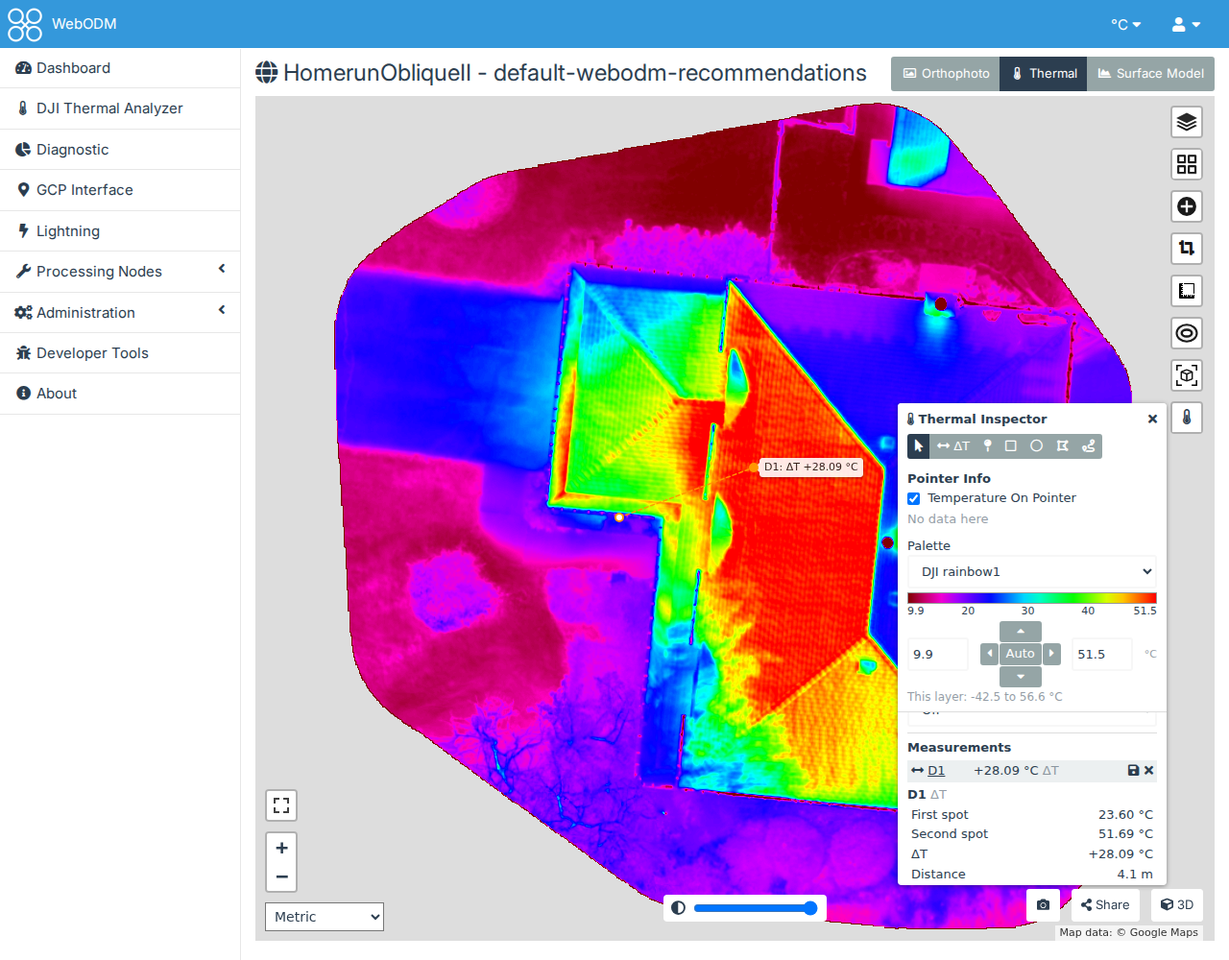
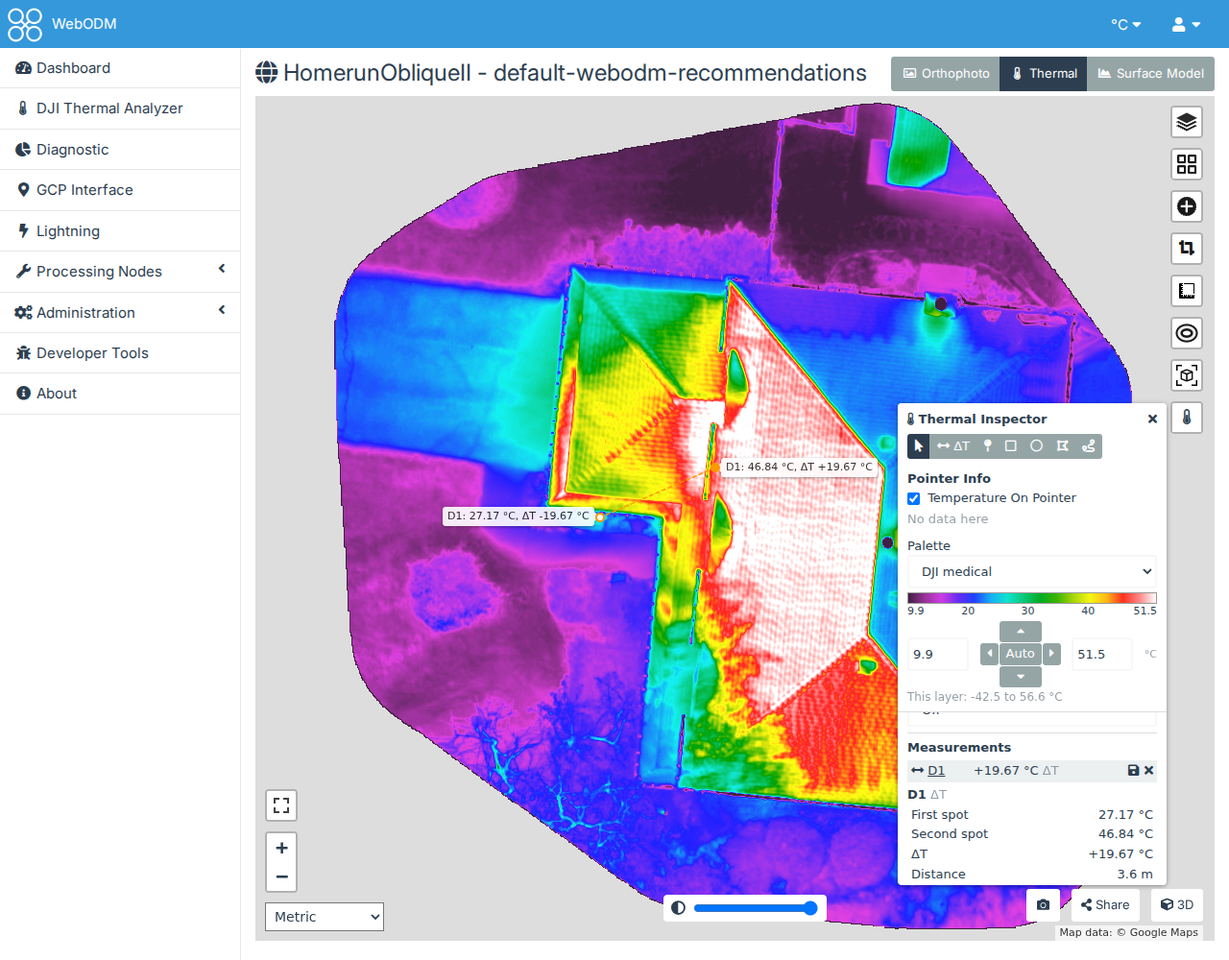
R46: each ΔT spot labelled with its temperature and its own ΔT
Both spots of a ΔT now show their temperature and that spot's temperature less
the other's ("D1: 22.10 °C, ΔT -2.10 °C" / "D1: 24.20 °C, ΔT +2.10 °C"), on the
map (new and saved, across two layers too), the 3D page and the frame page. The
second's is the ΔT listed, so the list and exports are unchanged.

diff --git a/dji-thermal/public/inspector.js b/dji-thermal/public/inspector.js
@@ -104,6 +104,16 @@
         return (celsius > 0 ? "+" : "") + formatDelta(celsius, unit);
     }
     function numberOrNull(v) { return typeof v === "number" && isFinite(v) ? v : null; }
+    // A ΔT's labels at its two spots: each its temperature and its own ΔT, that spot's less the other's, so the second's
+    // is the ΔT listed and the first's its opposite ("D1: 22.10 °C, ΔT -2.10 °C", "D1: 24.20 °C, ΔT +2.10 °C"); a spot
+    // without a temperature its name alone, and the other no ΔT
+    function deltaLabels(name, first, second, unit) {
+        var both = typeof first === "number" && typeof second === "number";
+        return [[first, second], [second, first]].map(function (p) {
+            if (typeof p[0] !== "number") return name;
+            return name + ": " + formatTemp(p[0], unit) + (both ? ", ΔT " + formatSigned(p[0] - p[1], unit) : "");
+        });
+    }
     function formatLength(m, unit) {
         var imperial = (unit || userUnit()) === "F";
         return (imperial ? m * FT_PER_M : m).toFixed(m >= 100 ? 0 : 1) + (imperial ? " ft" : " m");
@@ -1667,7 +1677,7 @@
             state.regions.forEach(function (r) {
                 var style = r.id === state.shown ? Regions.STYLE : {color: Regions.STYLE.color, weight: 1, opacity: 0.8, fillOpacity: 0.05};
                 if (r.shape === "delta") {
-                    return deltaLayers(latLngs(r), style.color, r.label + (typeof r.delta_t === "number" ? ": ΔT " + formatSigned(r.delta_t) : ""), "dt-inspector-tip",
+                    return deltaLayers(latLngs(r), style.color, deltaLabels(r.label, r.first, r.second), "dt-inspector-tip",
                                        acrossLayers(r) ? r.sources : r.source).forEach(function (l) { regionLayer.addLayer(l); });
                 }
                 var shape = r.circle ? L.circle([r.circle.lat, r.circle.lng], inPane(r.source, assign({radius: r.circle.radius, interactive: false}, style))) :
@@ -1686,18 +1696,20 @@
             updateCrossLines();
         }
 
-        // A ΔT on the map: a thin line between its spots, a dot at each (the first hollow), the label at the second; in
-        // the pane of the layer it was read on (key). Across two layers (key: [first's, second's]), each dot in its own
+        // A ΔT on the map: a thin line between its spots, a dot at each (the first hollow), each with its label (labels:
+        // deltaLabels'), on its outer side, away from the other; in the pane of the layer it was read on (key). Across two layers (key: [first's, second's]), each dot in its own
         // layer's pane, and the line in one of its own, shown only while both dots show (updateCrossLines)
         var crossLines = [];
-        function deltaLayers(points, color, label, className, key) {
+        function deltaLayers(points, color, labels, className, key) {
             var keys = Array.isArray(key) ? key : [key, key], across = keys[0] !== keys[1];
             var dot = function (p, fill, k) { return L.circleMarker(p, inPane(k, {radius: 4, color: color, weight: 2, fillColor: fill, fillOpacity: 1, interactive: false})); };
-            var second = dot(points[1], color, keys[1]);
-            second.bindTooltip(label, inPane(keys[1], {permanent: true, direction: "right", className: className}));
+            var firstLeft = points[0][1] <= points[1][1];
+            var first = dot(points[0], "#fff", keys[0]), second = dot(points[1], color, keys[1]);
+            first.bindTooltip(labels[0], inPane(keys[0], {permanent: true, direction: firstLeft ? "left" : "right", className: className}));
+            second.bindTooltip(labels[1], inPane(keys[1], {permanent: true, direction: firstLeft ? "right" : "left", className: className}));
             var line = L.polyline(points, inPane(across ? ACROSS_PANE : keys[0], {color: color, weight: 1.5, opacity: 0.95, dashArray: "4 3", interactive: false}));
             if (across) crossLines.push({line: line, points: points, keys: keys});
-            return [line, dot(points[0], "#fff", keys[0]), second];
+            return [line, first, second];
         }
         // Each ΔT across two layers: its line shown only while both its spots are on screen, each where its own layer
         // shows (inside its pane's clip: WebODM's divider), so a line never leads to a spot that isn't there
@@ -1747,7 +1759,7 @@
                     if (typeof t === "number") label = m.name + ": " + formatTemp(t);
                 } else if (m.shape === "delta") {
                     var v = m.values || {};
-                    return deltaLayers(savedLatLngs(m), SAVED_STYLE.color, m.name + (typeof v.delta_t === "number" ? ": ΔT " + formatSigned(v.delta_t) : ""),
+                    return deltaLayers(savedLatLngs(m), SAVED_STYLE.color, deltaLabels(m.name, v.first, v.second),
                                        "dt-inspector-tip dt-inspector-saved-tip", key).forEach(function (l) { savedLayer.addLayer(l); });
                 } else if (m.circle) shape = L.circle([m.circle.lat, m.circle.lng], inPane(key, assign({radius: m.circle.radius, interactive: false}, style)));
                 else if (m.shape === "line") shape = L.polyline(savedLatLngs(m), inPane(key, assign({interactive: false}, style, {weight: style.weight + 1})));
@@ -2868,7 +2880,7 @@
         });
     }
 
-    var api = {userUnit: userUnit, formatTemp: formatTemp, thermalLayer: thermalLayer, thermalLayers: thermalLayers,
+    var api = {userUnit: userUnit, formatTemp: formatTemp, deltaLabels: deltaLabels, thermalLayer: thermalLayer, thermalLayers: thermalLayers,
                thermalLayerAt: thermalLayerAt, pointUrl: pointUrl, withColorMap: withColorMap, colorMapOf: colorMapOf,
                PLAIN: PLAIN, withPalette: withPalette, paletteOf: paletteOf, paletteOptions: paletteOptions, rangeOf: rangeOf,
                isothermKey: isothermKey, validIsotherm: validIsotherm, loadIsotherm: loadIsotherm, defaultIsotherm: defaultIsotherm,

diff --git a/dji-thermal/public/__tests__/inspector.test.js b/dji-thermal/public/__tests__/inspector.test.js
@@ -642,7 +642,7 @@ describe("the Thermal Inspector's saved measurements and correction", () => {
         ticks.forEach(([at, label]) => expect(at).toBeCloseTo((inspector.uncorrected(label, half) - 10) / 30 * 100, 0));
     });
 
-    it("measures ΔT between two spots clicked after choosing ΔT beside Hover, the second's temperature less the first's", async () => {
+    it("measures ΔT between two spots clicked after choosing ΔT beside Hover, the second's temperature less the first's, each spot labelled with its own", async () => {
         const map = leafletMap();
         const DELTA = {valid: true, reason: null, first: 20, second: 26.5, delta_t: 6.5, reasons: [null, null], length: 2.31, measured: [20, 26.5], correction: null};
         const {ins, fetchFn, panel} = start(map, {[REGION]: DELTA}, {L});
@@ -672,13 +672,17 @@ describe("the Thermal Inspector's saved measurements and correction", () => {
         expect(shown.textContent).not.toContain("Mean");
         expect(panel().querySelector("[data-region]").textContent).toContain("+6.50 °C ΔT");
         const tips = [];
-        map.eachLayer(l => { if (l.getTooltip && l.getTooltip()) tips.push([l.getTooltip()._content, l.getLatLng()]); });
-        expect(tips).toEqual([["D1: ΔT +6.50 °C", L.latLng(0.5, 0.50002)]]);     // at the second spot
+        map.eachLayer(l => { if (l.getTooltip && l.getTooltip()) tips.push([l.getTooltip()._content, l.getLatLng(), l.getTooltip().options.direction]); });
+        // Each spot its temperature and its own ΔT (that spot's less the other's), on its side away from the other
+        expect(tips).toEqual([["D1: 20.00 °C, ΔT -6.50 °C", L.latLng(0.5, 0.5), "left"], ["D1: 26.50 °C, ΔT +6.50 °C", L.latLng(0.5, 0.50002), "right"]]);
         expect(regionsCsv(ins.state.regions, "F").split("\n")[1]).toBe("D1,delta,,,,,,2.310,,,,,,,,,11.700,,,,,,68.000,79.700");
 
-        // A spot with no temperature: no ΔT, and which one says why
+        // A spot with no temperature: no ΔT, and which one says why; on the map its name alone, the other its temperature
         const missing = Object.assign({}, DELTA, {valid: false, reason: "nodata", second: null, delta_t: null, reasons: [null, "nodata"]});
         expect(inspector.statisticsHtml(Object.assign({shape: "delta"}, missing), "C")).toContain("No data here");
+        expect(inspector.deltaLabels("D1", 20, null, "C")).toEqual(["D1: 20.00 °C", "D1"]);
+        expect(inspector.deltaLabels("D1", undefined, undefined, "C")).toEqual(["D1", "D1"]);
+        expect(inspector.deltaLabels("D1", 20, 26.5, "F")).toEqual(["D1: 68.00 °F, ΔT -11.70 °F", "D1: 79.70 °F, ΔT +11.70 °F"]);
         map.remove();
     });
 
@@ -712,7 +716,7 @@ describe("the Thermal Inspector's saved measurements and correction", () => {
         ["Vent", "ΔT", "First spot20.00 °C", "Second spot18.00 °C", "ΔT-2.00 °C"].forEach(t => expect(shown).toContain(t));
         const tips = [];
         map.eachLayer(l => { if (l.getTooltip && l.getTooltip()) tips.push(l.getTooltip()._content); });
-        expect(tips).toContain("Vent: ΔT -2.00 °C");
+        expect(tips).toEqual(expect.arrayContaining(["Vent: 20.00 °C, ΔT +2.00 °C", "Vent: 18.00 °C, ΔT -2.00 °C"]));
         expect(inspector.savedCsv([{source: {name: "Roof survey"}, m: saved}], "C").split("\n")[1]).toMatch(
             /^Vent,,delta,Roof survey,,2026-11-11T10:00:00Z,ana,,,,,,3,,,,,,,,,-2,,,,,,,,20,18$/);
         map.remove();

diff --git a/dji-thermal/public/__tests__/frame.test.js b/dji-thermal/public/__tests__/frame.test.js
@@ -457,7 +457,7 @@ describe("the frame page", () => {
         expect(pins(0)[0].tooltipOpts.className).toBe("dt-inspector-tip dt-inspector-saved-tip");
     });
 
-    it("measures ΔT between two pixels clicked with ΔT, first of the tools, and saves it like the others", async () => {
+    it("measures ΔT between two pixels clicked with ΔT, first of the tools, each spot labelled with its own, and saves it like the others", async () => {
         const {server, L} = await start();
         const tools = [...document.querySelectorAll("#ta-frame-measure [data-tool]")];
         expect(tools.map(b => b.getAttribute("data-tool"))).toEqual(["delta", "pin", "line", "rectangle", "circle", "polygon"]);
@@ -476,6 +476,9 @@ describe("the frame page", () => {
         const drawn = L.maps[0].layers.filter(l => l.clearLayers).pop().layers;
         expect(drawn.filter(l => l.line).length).toBe(1);
         expect(drawn.filter(l => l.marker).map(l => l.marker)).toEqual([[-0.5, 0.5], [-0.5, 5.5]]);
+        // Each spot labelled with its temperature and its own ΔT, on its side away from the other
+        expect(drawn.filter(l => l.marker).map(l => [l.tooltip, l.tooltipOpts.direction]))
+            .toEqual([["D1: 15.00 °C, ΔT -2.25 °C", "left"], ["D1: 17.25 °C, ΔT +2.25 °C", "right"]]);
         document.querySelector("[data-item] [data-act=save]").click();
         document.querySelector("[data-form=name]").value = "Joint";
         document.querySelector("[data-act=form-save]").click();
@@ -485,6 +488,9 @@ describe("the frame page", () => {
         expect($("ta-frame-saved").textContent).toContain("Joint");
         expect($("ta-frame-saved").textContent).toContain("+2.25 °C ΔT");
         expect($("ta-frame-saved").textContent).toContain("Second spot17.25 °C");
+        const savedDots = L.maps[0].layers.filter(l => l.clearLayers).pop().layers.filter(l => l.marker);
+        expect(savedDots.map(l => l.tooltip)).toEqual(["Joint: 15.00 °C, ΔT -2.25 °C", "Joint: 17.25 °C, ΔT +2.25 °C"]);
+        expect(savedDots[0].tooltipOpts.className).toBe("dt-inspector-tip dt-inspector-saved-tip");
     });
 
     it("measures the shapes again when the isotherm or the parameters change, the isotherm's limits in °C", async () => {

diff --git a/dji-thermal/public/frame.js b/dji-thermal/public/frame.js
@@ -528,12 +528,17 @@
                     var o = {color: sh.color, weight: sh.shown ? 3 : 2, dashArray: sh.dash, fillOpacity: sh.shown ? 0.15 : 0.05, interactive: false};
                     var g = sh.g;
                     if (!g) return;
-                    // A ΔT: a thin dashed line between its spots, a dot at each (the first hollow)
+                    // A ΔT: a thin dashed line between its spots, a dot at each (the first hollow), each labelled with its
+                    // temperature and its own ΔT on its outer side
                     if (sh.shape === "delta") {
-                        var ends = g.coordinates.map(latLng);
+                        var ends = g.coordinates.map(latLng), res = sh.res || {}, firstLeft = ends[0][1] <= ends[1][1];
+                        var labels = Inspector.deltaLabels(sh.name, res.first, res.second, Inspector.userUnit());
                         L.polyline(ends, {color: sh.color, weight: sh.shown ? 2 : 1.5, dashArray: "4 3", interactive: false}).addTo(groups[i]);
                         ends.forEach(function (e, n) {
-                            L.circleMarker(e, {radius: 4, color: sh.color, weight: 2, fillColor: n ? sh.color : "#fff", fillOpacity: 1, interactive: false}).addTo(groups[i]);
+                            L.circleMarker(e, {radius: 4, color: sh.color, weight: 2, fillColor: n ? sh.color : "#fff", fillOpacity: 1, interactive: false})
+                                .bindTooltip(labels[n], {permanent: true, direction: (n === 0) === firstLeft ? "left" : "right",
+                                                         className: "dt-inspector-tip" + (sh.saved ? " dt-inspector-saved-tip" : "")})
+                                .addTo(groups[i]);
                         });
                         return;
                     }

diff --git a/dji-thermal/public/__tests__/inspector3d.test.js b/dji-thermal/public/__tests__/inspector3d.test.js
@@ -253,7 +253,7 @@ describe("pins and ΔTs", () => {
         expect(p.inspector.state.measurements).toHaveLength(0);
     });
 
-    test("ΔT is the second spot's temperature less the first's, with their distance in 3D; Esc cancels the first", async () => {
+    test("ΔT is the second spot's temperature less the first's, with their distance in 3D, each spot labelled with its own; Esc cancels the first", async () => {
         const p = await page();
         p.inspector.toggle();
         await flush();
@@ -270,6 +270,9 @@ describe("pins and ΔTs", () => {
         expect(Inspector3D.deltaOf(d, (r) => r.temperature)).toBeCloseTo(30, 9);
         expect(d.length).toBeCloseTo(Math.hypot(30, 40), 9);
         expect(p.panel().querySelector(".dt-inspector-delta-figures").textContent).toMatch(/\+30\.00 °C/);
+        // Each spot labelled with its temperature and its own ΔT, that spot's less the other's
+        expect([...p.area.querySelectorAll(".dt-inspector3d-marker.dt-spot")].map((m) => m.textContent))
+            .toEqual(["D1: 10.00 °C, ΔT -30.00 °C", "D1: 40.00 °C, ΔT +30.00 °C"]);
     });
 
     test("Manual Corrections change the temperatures shown, and the scale keeps the temperatures it shows", async () => {

diff --git a/dev/screenshots.js b/dev/screenshots.js
@@ -298,9 +298,9 @@ const SHOTS = {
         const map = await p.locator(".leaflet-container").first().boundingBox();
         const at = (fx, fy) => [map.x + map.width * fx, map.y + map.height * fy];
         await p.click('.dt-inspector-modes [data-mode="delta"]');
-        await p.mouse.click(...at(0.38, 0.5));
+        await p.mouse.click(...at(0.36, 0.5));
         await p.waitForTimeout(300);
-        await p.mouse.click(...at(0.52, 0.44));
+        await p.mouse.click(...at(0.48, 0.44));     // each spot's label beside it, the second's clear of the panel
         await p.waitForSelector(".dt-inspector-delta-figures", {timeout: 30000});
         // The panel is drawn again as it reads: scrolled to the figures once they are there
         await p.waitForTimeout(500);

diff --git a/dji-thermal/public/inspector3d.js b/dji-thermal/public/inspector3d.js
@@ -590,8 +590,8 @@
                 state.measurements.forEach(function (m) {
                     if (m.kind === "pin") html += marker("dt-pin", labelled(m.label, temp(m), unit));
                     else {
-                        var d = deltaOf(m, temp);
-                        html += marker("dt-spot", m.label + "a") + marker("dt-spot dt-spot-end", m.label + (d === null ? "" : " " + formatSigned(d, unit)));
+                        var labels = Inspector.deltaLabels(m.label, temp(m.first), temp(m.second), unit);
+                        html += marker("dt-spot", labels[0]) + marker("dt-spot dt-spot-end", labels[1]);
                         lines += '<line class="dt-inspector3d-line"></line>';
                     }
                 });

diff --git a/dji-thermal/public/inspector3d.css b/dji-thermal/public/inspector3d.css
@@ -23,7 +23,6 @@
     background: rgba(0, 0, 0, 0.7); color: #fff; font-size: 11px; line-height: 16px;
 }
 .dt-inspector3d-marker.dt-spot::before { background: #ff9800; }
-.dt-inspector3d-marker.dt-spot:not(.dt-spot-end) span { display: none; }
 .dt-inspector3d-marker.dt-saved::before { background: #2e7d32; border-style: dashed; }
 .dt-inspector3d-line { stroke: #fff; stroke-width: 2px; stroke-dasharray: 5 3; filter: drop-shadow(0 0 1px #000); }
 .dt-inspector3d-marker.dt-camera::before { background: #1e88e5; border-radius: 2px; }

diff --git a/upcoming-changes.md b/upcoming-changes.md
@@ -3,7 +3,16 @@
 ## Phases (current and upcoming)
 
 **Up next**
-- **R46. ΔT: each spot's temperature and its own ΔT** (`r46-delta-labels`, after R45: the same labels) — the user,
+- **No macOS testing before the release** (the user, 2026-11-08): "we'll forego any macOS testing needed prior to
+  release." WebODM's macOS installer runs it in Docker, so the Linux runs cover it ("Done: Linux, Windows and
+  macOS"); Apple Silicon was checked without a Mac.
+
+**Later**
+- **Kelvin on screen** (the user, 2026-11-07: dropped from the header unit, "we may decide to add it back later if
+  webodm adds more traditional Kelvin support"): only once WebODM's units offer it.
+
+**Done**
+- **R46. ΔT: each spot's temperature and its own ΔT** (`r46-delta-labels`) — 2026-11-17, built. The user,
   2026-11-17, in `new.md`: "For Delta T points, display each points temperature as well as the Delta T at both
   points. Better visual aid to what the values true meaning is." Today only the second spot is labelled ("D1: ΔT
   +2.1 °C"; the 3D page "D1a" and "D1 +2.1"); each spot's temperature is already kept (`first`, `second`, live and
@@ -18,15 +27,17 @@
      the frame page. A spot without a reading shows its name alone and no ΔT.
   Tests: Jest for the labels on each page (the sign at each spot, a spot without a reading); docs: the ΔT sections
   of `quickstart-inspector.md`, the 3D and frame pages', screenshots where a ΔT shows.
-- **No macOS testing before the release** (the user, 2026-11-08): "we'll forego any macOS testing needed prior to
-  release." WebODM's macOS installer runs it in Docker, so the Linux runs cover it ("Done: Linux, Windows and
-  macOS"); Apple Silicon was checked without a Mac.
-
-**Later**
-- **Kelvin on screen** (the user, 2026-11-07: dropped from the header unit, "we may decide to add it back later if
-  webodm adds more traditional Kelvin support"): only once WebODM's units offer it.
-
-**Done**
+  **Built**: `inspector.js` `deltaLabels(name, first, second, unit)` (exported; the second's ΔT is the one listed),
+  used by `deltaLayers` (both dots labelled, each on its side away from the other) for new and saved ΔTs, across two
+  layers too; `inspector3d.js` (both spots' markers; `inspector3d.css` no longer hides the first's label);
+  `frame.js` `drawShapes` (both pixels labelled, new and saved). Tests: Jest `inspector.test.js` (the labels and
+  their sides, a saved ΔT's, `deltaLabels` without a reading and in °F), `inspector3d.test.js`, `frame.test.js` (new
+  and saved); each new check failed on the old code. Jest 418, ESLint, Ruff. Live on :8002 (read only; the
+  measuring POSTs let through): the map at 1280 px ("D1: 65.40 °F, ΔT -55.63 °F" / "D1: 121.03 °F, ΔT +55.63 °F",
+  listed +55.63) and 390 px, the 3D page and the frame page alike; no console errors. A label near the map's edge
+  runs past it, as any Leaflet label. Docs: README, `quickstart-inspector.md`, `quickstart-3d.md`,
+  `quickstart-worksets.md`; `inspector-delta.png` (spots moved so the second's label clears the panel) and
+  `inspector-3d.png` retaken and looked at.
 - **R45. Pins: no photos window from a Pin click; each pin's temperature beside it** (`r45-pin-labels`) — 2026-11-17, built. The user,
   2026-11-17, in `new.md`: "2 fixes needed for Thermal Inspector Pins. 1, don't open the source photos as that should
   only happen when hover is active. 2, show the pin's temperature by the pin point. Similar to how Delta T works."

diff --git a/README.md b/README.md
@@ -333,7 +333,8 @@ its detail pane: the frame page of the newest workset that converted):
   **Temperature On Pointer** shows the temperature beside the pointer too, each
   pane its own;
 - **Measure**: the Thermal Inspector's tools in the frame's pixels: **ΔT** (two pixels clicked: each one's
-  temperature and the second's less the first's, with the distance between them in pixels), a pin (a pixel's temperature), a line (a strip 1
+  temperature and the second's less the first's, with the distance between them in pixels; each labelled on the
+  frame with its temperature and its own ΔT), a pin (a pixel's temperature), a line (a strip 1
   pixel either side of it, with its profile; hovering the profile marks its point), a rectangle, a circle or a
   polygon (the statistics, the surroundings, a ring 3 to 10 pixels wide, and ΔT, the isotherm's share and a
   histogram), labelled D1…, P1…, L1…, R1…, kept while the page is open and measured again when the isotherm or the
@@ -410,7 +411,8 @@ orthophotos only, but for one the Analyzer's **Open on WebODM's map** opened, wi
   orthophoto and where it has no data it says so.
 - **ΔT**, beside Hover: click a first spot, then a second, labelled D1, D2…. The panel gives each spot's temperature
   (its own pixel, as a pin reads it), **ΔT**, the second's less the first's (corrected with Manual Corrections), and
-  the distance between them; the map shows a thin line between the spots, labelled at the second with its ΔT. A ΔT
+  the distance between them; the map shows a thin line between the spots, each labelled with its temperature and its own ΔT, that spot's less
+  the other's ("D1: 22.10 °C, ΔT -2.10 °C" and "D1: 24.20 °C, ΔT +2.10 °C"). A ΔT
   is listed under Measurements, kept in your browser, saved like a region and exported in the CSV (with
   **first_spot** and **second_spot** columns). With an overlay swiped, a ΔT can span the divider: each spot is
   read from the layer showing where it was clicked, the list names both layers, each dot shows with its own layer
@@ -537,8 +539,8 @@ temperature TIFFs), the plugin colours the textured model in your palette from t
 as soon as the page opens (ODM's own model has them as grey). A thermometer button beside **Share** opens the 3D
 Thermal Inspector, with the 2D Inspector's tools that make sense on a model:
 
-- **Hover** (a tap on a phone), **ΔT** (two spots, and the distance between them) and **Pin**, read where the
-  pointer meets the model. Pins and ΔTs are listed under Measurements, kept in your browser for the task, with
+- **Hover** (a tap on a phone), **ΔT** (two spots, and the distance between them; each spot labelled with its
+  temperature and its own ΔT) and **Pin**, read where the pointer meets the model. Pins and ΔTs are listed under Measurements, kept in your browser for the task, with
   Hide/Show, CSV (x, y, z in the task's projection) and Remove all. A click measures; a drag still moves the view.
 - **Palette** (your palette, shared with the 2D map), **colour scale** (Auto: the model's 2nd to 98th percentile),
   **Image**, **Isotherm** (shared with the task's 2D map), **Legend** and **Manual Corrections**, as on the map.

diff --git a/docs/quickstart-inspector.md b/docs/quickstart-inspector.md
@@ -25,8 +25,9 @@ on the map does:
   and applies to the Analyzer's mosaic viewer and frame page too (where the label is off until you tick it).
 - **ΔT**: click a first spot, then a second (D1, D2…). The panel gives each spot's temperature, the temperature of
   its own pixel, and **ΔT**, the second's minus the first's: click the cold spot first and a warmer one second, and
-  ΔT is above zero. The map shows a thin line between them, labelled with the ΔT at the second spot. With Manual
-  Corrections on (section 8), both spots are corrected. Save it, rename it and delete it like a region.
+  ΔT is above zero. The map shows a thin line between them, and each spot is labelled with its temperature and its
+  own ΔT, that spot's less the other's: "D1: 22.10 °C, ΔT -2.10 °C" at the first, "D1: 24.20 °C, ΔT +2.10 °C" at the
+  second (the ΔT listed). With Manual Corrections on (section 8), both spots are corrected. Save it, rename it and delete it like a region.
 - **Pin**: a click pins the point, with its temperature beside it on the map ("P1: 22.30 °C"). The pins are listed
   in the panel; click one to go to it. A click in Pin doesn't open the frames that saw the point (section 6): Hover
   does.

diff --git a/docs/quickstart-worksets.md b/docs/quickstart-worksets.md
@@ -151,7 +151,8 @@ cursor.
 
 **Measure** has the Thermal Inspector's tools, in the frame's pixels: **ΔT**, **Pin**, **Line**, **Rectangle**, **Circle**
 and **Polygon**. With **ΔT**, click a first pixel, then a second: it gives each one's temperature and the second's
-less the first's. A pin shows its temperature beside it on the frame, saved ones too. Click a row for its statistics (a ΔT's two spots, a line's profile, a region's histogram, the
+less the first's, and labels each pixel on the frame with its temperature and its own ΔT (that pixel's less the
+other's). A pin shows its temperature beside it on the frame, saved ones too. Click a row for its statistics (a ΔT's two spots, a line's profile, a region's histogram, the
 surroundings and ΔT). Those
 who can change the project can **Save** one: it stays with the workset, under **Saved on this frame**, for everyone
 who can view the project.
